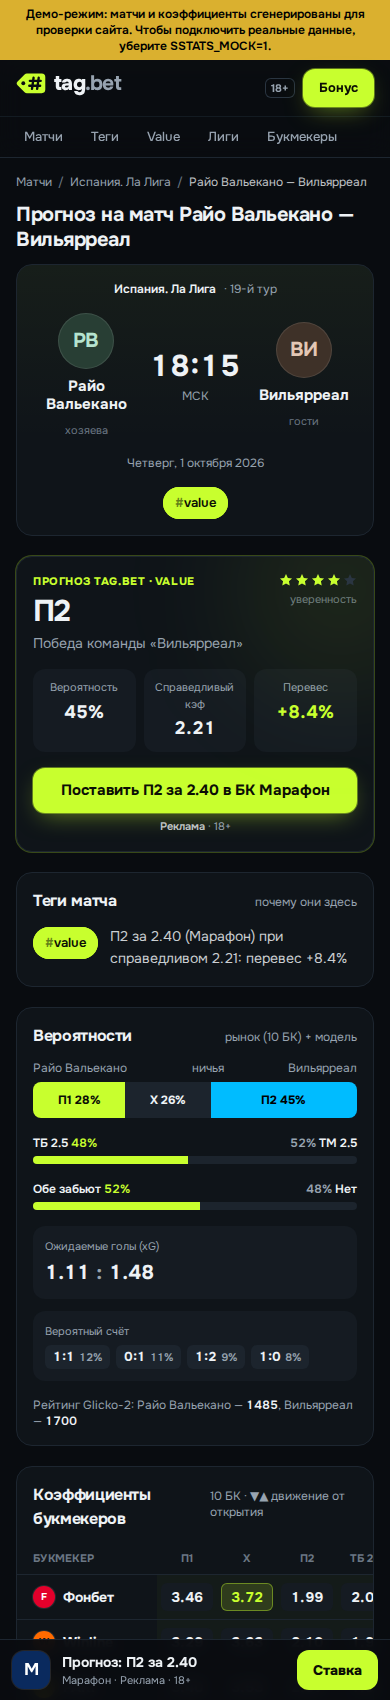
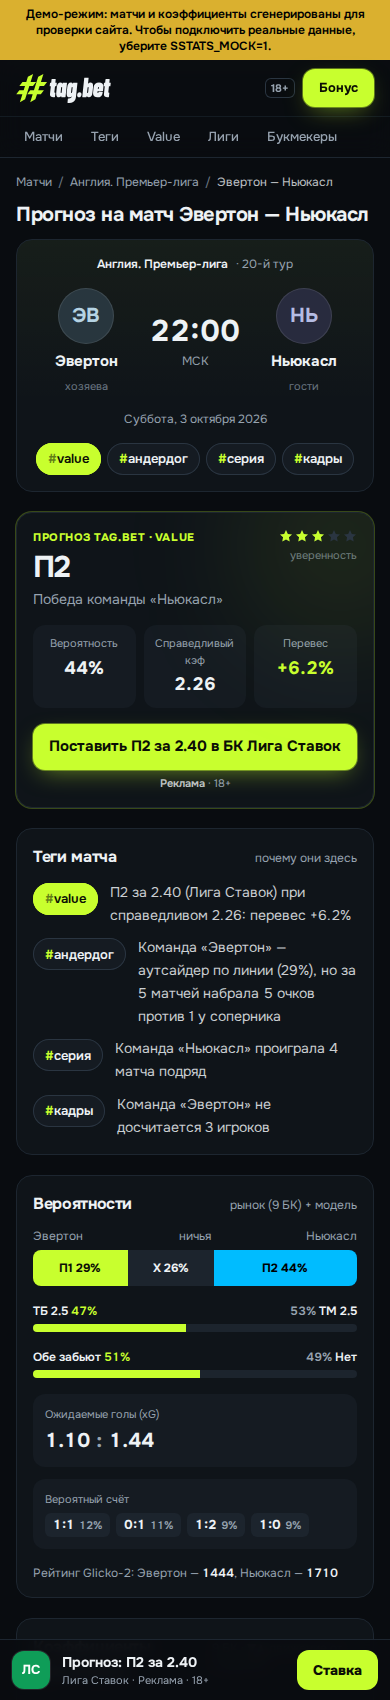
Новый логотип: переплетённая решётка + tag.bet в кривых
- Знак по сгенерированному варианту: две одинаковые детали, повёрнутые
  на 180°; каждая перекладина проходит «под» второй вертикалью.
  Геометрия восстановлена параметрически (параллельные грани, точная
  симметрия), а не обводкой картинки
- Надпись — Barlow Condensed Black Italic (SIL OFL), поджата до 86%
  ширины, как в исходнике; переведена в кривые, шрифт не грузится
- Logo/LogoMark рисуют inline SVG из components/logo-paths.ts
- Новые иконка вкладки (app/icon.svg), иконка для iPhone
  (app/apple-icon.png), превью ссылок (public/og.png)
- public/brand/: logo.svg, logo-black.svg, mark.svg, avatar.png
  для Telegram; раздел «Бренд» в README

Claude-Session: https://claude.ai/code/session_01LqCxNKeCAKNwhNzoBsjYvY

diff --git a/components/logo-paths.ts b/components/logo-paths.ts
@@ -1,0 +1,12 @@
+// Сгенерировано из векторной версии логотипа (знак — переплетённая решётка,
+// надпись — Barlow Condensed Black Italic в кривых, лицензия SIL OFL).
+// Файлы для внешнего использования — в public/brand/.
+export const LOGO_VIEWBOX = '0 0 859.4 263.7'
+export const MARK_VIEWBOX = '0 0 280.17 256'
+export const LOGO_ASPECT = 3.2592
+export const MARK_ASPECT = 1.0944
+export const MARK_D =
+  'M153.30 0.00L105.95 25.57L91.28 72.00L56.58 72.00L28.50 108.00L79.91 108.00L67.27 148.00L28.08 148.00L0.00 184.00L55.90 184.00L33.15 256.00L80.49 230.43L119.18 108.00L152.50 108.00L180.58 72.00L130.55 72.00ZM126.87 256.00L174.21 230.43L188.89 184.00L223.58 184.00L251.67 148.00L200.26 148.00L212.90 108.00L252.08 108.00L280.17 72.00L224.27 72.00L247.02 0.00L199.68 25.57L160.99 148.00L127.67 148.00L99.58 184.00L149.62 184.00Z'
+export const TEXT_TRANSFORM = 'matrix(0.217741 0 0 0.253187 297.14 210.51)'
+export const TEXT_D =
+  'M300 -390H258Q253 -390 253 -385L229 -192Q227 -174 234.0 -167.5Q241 -161 256 -162H258Q264 -162 267.5 -158.0Q271 -154 270 -147L254 -15Q253 -8 248.5 -4.0Q244 0 238 0H191Q118 0 81.0 -19.0Q44 -38 44 -93Q44 -108 45 -116L78 -385Q80 -390 74 -390H47Q40 -390 36.5 -394.0Q33 -398 34 -405L46 -505Q49 -520 63 -520H90Q94 -520 96 -525L109 -633Q110 -640 114.0 -644.0Q118 -648 125 -648H271Q277 -648 280.5 -644.0Q284 -640 283 -633L270 -525Q270 -520 274 -520H316Q323 -520 326.5 -516.0Q330 -512 329 -505L316 -405Q315 -398 311.0 -394.0Q307 -390 300 -390ZM589.0 -520H743.0Q749.0 -520 752.5 -516.0Q756.0 -512 755.0 -505L695.0 -15Q694.0 -8 690.0 -4.0Q686.0 0 679.0 0H526.0Q519.0 0 515.5 -4.0Q512.0 -8 513.0 -15L516.0 -37Q516.0 -41 514.0 -41.0Q512.0 -41 510.0 -38Q476.0 8 418.0 8Q358.0 8 331.0 -25.0Q304.0 -58 304.0 -121Q304.0 -145 307.0 -170L329.0 -350Q340.0 -439 377.5 -483.5Q415.0 -528 484.0 -528Q542.0 -528 564.0 -481Q566.0 -478 568.0 -478.5Q570.0 -479 570.0 -483L573.0 -505Q574.0 -512 578.5 -516.0Q583.0 -520 589.0 -520ZM534.0 -185 552.0 -335Q554.0 -349 549.0 -358.0Q544.0 -367 534.0 -367Q524.0 -367 518.0 -358.0Q512.0 -349 510.0 -335L491.0 -185Q489.0 -170 493.5 -161.5Q498.0 -153 508.0 -153Q518.0 -153 525.0 -162.0Q532.0 -171 534.0 -185ZM1025.0 -520H1179.0Q1185.0 -520 1188.5 -516.0Q1192.0 -512 1191.0 -505L1134.0 -34Q1125.0 41 1097.5 94.0Q1070.0 147 1009.5 178.5Q949.0 210 847.0 210Q810.0 210 789.0 208Q774.0 208 776.0 193L792.0 60Q795.0 45 810.0 46Q882.0 50 911.0 32.5Q940.0 15 949.0 -24Q950.0 -27 946.0 -28.0Q942.0 -29 940.0 -26Q906.0 8 854.0 8Q794.0 8 767.0 -25.0Q740.0 -58 740.0 -121Q740.0 -145 743.0 -170L765.0 -350Q776.0 -439 813.5 -483.5Q851.0 -528 920.0 -528Q978.0 -528 1000.0 -482Q1002.0 -479 1004.0 -479.0Q1006.0 -479 1006.0 -483L1009.0 -505Q1010.0 -512 1014.5 -516.0Q1019.0 -520 1025.0 -520ZM970.0 -185 988.0 -335Q990.0 -349 985.0 -358.0Q980.0 -367 970.0 -367Q960.0 -367 954.0 -358.0Q948.0 -349 946.0 -335L927.0 -185Q925.0 -170 929.5 -161.5Q934.0 -153 944.0 -153Q954.0 -153 961.0 -162.0Q968.0 -171 970.0 -185ZM1178.0 -72Q1178.0 -119 1208.0 -149.5Q1238.0 -180 1282.0 -180Q1318.0 -180 1340.0 -158.0Q1362.0 -136 1362.0 -101Q1362.0 -55 1332.0 -23.5Q1302.0 8 1259.0 8Q1222.0 8 1200.0 -14.5Q1178.0 -37 1178.0 -72ZM1844.0 -400Q1844.0 -377 1841.0 -350L1819.0 -170Q1809.0 -84 1771.5 -38.0Q1734.0 8 1664.0 8Q1607.0 8 1584.0 -38Q1582.0 -41 1580.0 -41.0Q1578.0 -41 1578.0 -37L1575.0 -15Q1574.0 -8 1569.5 -4.0Q1565.0 0 1559.0 0H1405.0Q1399.0 0 1395.5 -4.0Q1392.0 -8 1393.0 -15L1475.0 -685Q1476.0 -692 1480.5 -696.0Q1485.0 -700 1491.0 -700H1645.0Q1651.0 -700 1654.5 -696.0Q1658.0 -692 1657.0 -685L1633.0 -483V-482Q1633.0 -481 1634.0 -481Q1636.0 -481 1645.0 -490Q1677.0 -528 1730.0 -528Q1788.0 -528 1816.0 -496.0Q1844.0 -464 1844.0 -400ZM1657.0 -342Q1657.0 -353 1652.5 -360.0Q1648.0 -367 1641.0 -367Q1631.0 -367 1623.5 -358.5Q1616.0 -350 1614.0 -335L1596.0 -185Q1594.0 -171 1599.0 -162.0Q1604.0 -153 1614.0 -153Q1624.0 -153 1630.5 -161.5Q1637.0 -170 1639.0 -185L1657.0 -335ZM2243.0 -213H2036.0Q2034.0 -213 2032.5 -211.5Q2031.0 -210 2031.0 -208L2028.0 -185Q2026.0 -171 2031.5 -162.0Q2037.0 -153 2047.0 -153Q2064.0 -153 2072.0 -178Q2078.0 -192 2090.0 -191L2237.0 -181Q2252.0 -179 2249.0 -165Q2233.0 -77 2179.0 -34.5Q2125.0 8 2027.0 8Q1938.0 8 1890.0 -31.0Q1842.0 -70 1842.0 -142Q1842.0 -150 1844.0 -170L1866.0 -350Q1876.0 -431 1936.5 -479.5Q1997.0 -528 2093.0 -528Q2181.0 -528 2228.5 -487.0Q2276.0 -446 2276.0 -376Q2276.0 -368 2274.0 -350L2259.0 -228Q2258.0 -221 2254.0 -217.0Q2250.0 -213 2243.0 -213ZM2047.0 -335 2043.0 -310Q2043.0 -305 2048.0 -305H2082.0Q2087.0 -305 2087.0 -310L2090.0 -335L2091.0 -343Q2091.0 -353 2086.0 -360.0Q2081.0 -367 2073.0 -367Q2063.0 -367 2056.0 -358.0Q2049.0 -349 2047.0 -335ZM2553.0 -390H2511.0Q2506.0 -390 2506.0 -385L2482.0 -192Q2480.0 -174 2487.0 -167.5Q2494.0 -161 2509.0 -162H2511.0Q2517.0 -162 2520.5 -158.0Q2524.0 -154 2523.0 -147L2507.0 -15Q2506.0 -8 2501.5 -4.0Q2497.0 0 2491.0 0H2444.0Q2371.0 0 2334.0 -19.0Q2297.0 -38 2297.0 -93Q2297.0 -108 2298.0 -116L2331.0 -385Q2333.0 -390 2327.0 -390H2300.0Q2293.0 -390 2289.5 -394.0Q2286.0 -398 2287.0 -405L2299.0 -505Q2302.0 -520 2316.0 -520H2343.0Q2347.0 -520 2349.0 -525L2362.0 -633Q2363.0 -640 2367.0 -644.0Q2371.0 -648 2378.0 -648H2524.0Q2530.0 -648 2533.5 -644.0Q2537.0 -640 2536.0 -633L2523.0 -525Q2523.0 -520 2527.0 -520H2569.0Q2576.0 -520 2579.5 -516.0Q2583.0 -512 2582.0 -505L2569.0 -405Q2568.0 -398 2564.0 -394.0Q2560.0 -390 2553.0 -390Z'

diff --git a/components/Logo.tsx b/components/Logo.tsx
@@ -1,34 +1,27 @@
-/**
- * Знак tag.bet: бирка-ценник с пробитым отверстием и решёткой.
- * «tag» — это и бирка, и тег; ценник намекает на «правильную цену» (value).
- * Вырезы рисуются цветом фона (ink), поэтому знак выглядит «пробитым».
- */
+import { LOGO_ASPECT, LOGO_VIEWBOX, MARK_ASPECT, MARK_D, MARK_VIEWBOX, TEXT_D, TEXT_TRANSFORM } from './logo-paths'
+
+/** Знак tag.bet: переплетённая решётка (каждая перекладина проходит «под» второй вертикалью). */
 export function LogoMark({ size = 28, className = '' }: { size?: number; className?: string }) {
   return (
-    <svg viewBox="4 4 42 42" width={size} height={size} className={`shrink-0 ${className}`} aria-hidden>
-      <path
-        className="fill-acid"
-        d="M6.2 21.4 16 11.6c.9-.9 2.1-1.4 3.3-1.4H40a5 5 0 0 1 5 5v17.6a5 5 0 0 1-5 5H19.3c-1.2 0-2.4-.5-3.3-1.4l-9.8-9.8a3.7 3.7 0 0 1 0-5.2Z"
-      />
-      <circle cx="14.2" cy="24" r="2.7" className="fill-ink" />
-      <path
-        className="stroke-ink"
-        strokeWidth="3.3"
-        strokeLinecap="round"
-        fill="none"
-        d="M28.6 16.2 26.4 31.8M35.8 16.2 33.6 31.8M23.4 20.6h15.2M22.6 27.4h15.2"
-      />
+    <svg viewBox={MARK_VIEWBOX} height={size} width={Math.round(size * MARK_ASPECT)} className={`shrink-0 ${className}`} aria-hidden>
+      <path className="fill-acid" d={MARK_D} />
     </svg>
   )
 }
 
-export function Logo({ className = '', size = 28 }: { className?: string; size?: number }) {
+/** Логотип целиком, в кривых. size — высота в px; надпись берёт цвет текста (currentColor). */
+export function Logo({ size = 28, className = '' }: { size?: number; className?: string }) {
   return (
-    <span className={`inline-flex items-center gap-2 font-extrabold tracking-[-0.035em] ${className}`}>
-      <LogoMark size={size} />
-      <span>
-        tag<span className="font-bold text-dim">.bet</span>
-      </span>
-    </span>
+    <svg
+      viewBox={LOGO_VIEWBOX}
+      height={size}
+      width={Math.round(size * LOGO_ASPECT)}
+      className={`shrink-0 ${className}`}
+      role="img"
+      aria-label="tag.bet"
+    >
+      <path className="fill-acid" d={MARK_D} />
+      <path fill="currentColor" transform={TEXT_TRANSFORM} d={TEXT_D} />
+    </svg>
   )
 }

diff --git a/components/Header.tsx b/components/Header.tsx
@@ -17,8 +17,8 @@ export function Header() {
   return (
     <header className="sticky top-0 z-40 border-b border-edge bg-ink/90 backdrop-blur-md supports-[backdrop-filter]:bg-ink/75">
       <div className="mx-auto flex h-14 max-w-6xl items-center gap-4 px-4">
-        <Link href="/" className="shrink-0 text-[21px]" aria-label="tag.bet — на главную">
-          <Logo size={30} />
+        <Link href="/" className="shrink-0 text-fg" aria-label="tag.bet — на главную">
+          <Logo size={29} />
         </Link>
         <nav aria-label="Основное меню" className="hidden items-center gap-1 md:flex">
           {NAV.map((n) => (

diff --git a/components/Footer.tsx b/components/Footer.tsx
@@ -7,7 +7,7 @@ export function Footer() {
     <footer className="mt-16 border-t border-edge bg-panel/40">
       <div className="mx-auto grid max-w-6xl gap-8 px-4 py-10 sm:grid-cols-[1.4fr_1fr_1fr]">
         <div>
-          <Logo className="text-lg" size={26} />
+          <Logo size={26} />
           <p className="mt-3 max-w-sm text-sm leading-relaxed text-dim">
             Теги ставок на футбол: сравнение коэффициентов, вероятности без маржи, форма команд и прогнозы на основе данных.
           </p>

diff --git a/README.md b/README.md
@@ -45,6 +45,21 @@
 
 ![Матч на мобильном](docs/match-mobile.png)
 
+## Бренд
+
+Логотип — переплетённая решётка (каждая перекладина проходит «под» второй вертикалью) и надпись
+`tag.bet` в кривых (Barlow Condensed Black Italic, SIL OFL). Файлы — в `public/brand/`:
+
+| Файл | Где использовать |
+| --- | --- |
+| `logo.svg` | основной логотип для тёмного фона |
+| `logo-black.svg` | одноцветный для светлого фона (документы, печать) |
+| `mark.svg` | только знак |
+| `avatar.png` | аватарка Telegram-канала и соцсетей (640×640) |
+
+Иконка вкладки — `app/icon.svg`, иконка для iPhone — `app/apple-icon.png`, превью ссылок — `public/og.png`.
+Цвета: лайм `#C8FF2E`, фон `#090C10`, текст `#EEF2F5`.
+
 ## Быстрый старт (демо, без API)
 
 Нужен Node.js 20.9+.
